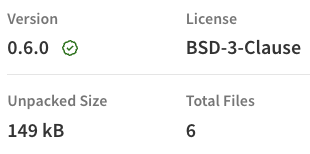
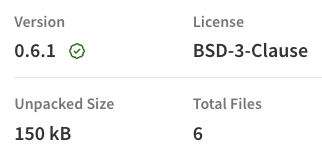
First draft

diff --git a/_drafts/react-virtual-scroll-0-6-0.md b/_drafts/react-virtual-scroll-0-6-0.md
@@ -12,7 +12,7 @@ After lots of thought and experimentation, I've mirrored the decoupling of virtu
 
 I've also included pre-composed `VirtualList` and `VirtualGrid` components for simple use cases. These components are largely backwards compatible with previous versions of the package. 
 
-It's time to introduce the new [React Virtual Scroll 0.6.x](https://www.npmjs.com/package/@candidstartup/react-virtual-scroll/v/0.6.0) component family.
+It's time to introduce the new [React Virtual Scroll 0.6.x](https://www.npmjs.com/package/@candidstartup/react-virtual-scroll/v/0.6.1) component family.
 
 {% include candid-image.html src="/assets/images/react-virtual-scroll/npm-react-virtual-scroll-0-6-0.png" alt="react-virtual-scroll 0.6.0 release" %}
 
@@ -100,7 +100,28 @@ Press and hold the arrow buttons in the offset fields to move window over the vi
 
 # Virtual Scroll
 
-`VirtualScroll` extracts the scrolling functionality from the old `VirtualList` and `VirtualGrid`. Scrolling behavior is determined by the `scrollableWidth` and `scrollableHeight` props. These directly set the size of the scrollable area. Set both for a two-dimensional scrolling experience, set either one for a horizontal or vertical scrolling experience.
+`VirtualScroll` extracts the scrolling functionality from the old `VirtualList` and `VirtualGrid`. Implementation uses the standard approach of an outer viewport container holding an inner content container. The difference is that the outer container has two children. 
+
+The content container uses [sticky positioning](https://developer.mozilla.org/en-US/docs/Web/CSS/position) to ensure that it always fills the viewport, regardless of scroll position. The other child is an empty div which acts as the scrollable area. Content rendering is decoupled from scrolling. The browser can no longer scroll stale content out of view. 
+
+{% raw %}
+
+```tsx
+<VirtualContainer className={className} render={outerRender} onScroll={onScroll}
+    style={{position:"relative", height, width, overflow: "auto", willChange: "transform"}}>
+  <VirtualContainer className={innerClassName} render={innerRender} 
+    style={{zIndex: 1, position: 'sticky', top: 0, left: 0, width: '100%', height: '100%'}}>
+    {children({isScrolling, verticalOffset, horizontalOffset})}
+  </VirtualContainer>
+  <div style={{ position: 'absolute', top: 0, left: 0, 
+    height: scrollHeight ? renderRowSize : '100%', 
+    width: scrollWidth ? renderColumnSize : '100%'}}/>
+</VirtualContainer>
+```
+
+{% endraw %}
+
+Scrolling behavior is determined by the `scrollableWidth` and `scrollableHeight` props. These directly set the size of the scrollable area. Set both for a two-dimensional scrolling experience, set either one for a horizontal or vertical scrolling experience.
 
 ```ts
 export interface VirtualScrollProps extends VirtualScrollableProps {
@@ -255,7 +276,7 @@ The simplest solution is to wrap the `DisplayList` in an `AutoSizer` so that it 
 
 {% endraw %}
 
-Most of the remaining code involved is needed to maintain backwards compatibility with the `onScroll` callback and `VirtualListProxy`. Lots of forwarding and restructuring to and from `VirtualScroll`. 
+Most of the remaining code is needed to maintain backwards compatibility with the `onScroll` callback and `VirtualListProxy`. Lots of forwarding and restructuring to and from `VirtualScroll`. 
 
 One of the reasons for decoupling functionality is to allow the client to put together their own combinations. To make it easier, I exported most of the `VirtualListProxy` functionality as utility functions that you can use with your own `VirtualScroll`. Which annoyingly means moving it into its own TypeScript source file to avoid breaking Vite HMR. 
 
@@ -332,34 +353,44 @@ Luckily, there's a better way. If you have more complex needs you can combine th
 
 # Overscan
 
+Traditional virtual scrolling implementations, like `react-window`, use [overscanning](https://web.dev/articles/virtualize-long-lists-react-window#overscanning) to try and compensate for glitchy rendering. Overscanning is the process of rendering additional content outside the visible window. If the browser scrolls stale content, the overscan items will be scrolled into view, reducing flashing. Obviously, this only works for small scale scrolls and ultimately reduces performance as you have more to render each frame.
+
+With the new decoupled rendering approach none of this is needed. I removed all the overscan rendering from `react-virtual-scroll`.
+
 # Layout Shift
+
+If you profile the new components using Chrome, you may see purple bars labeled as "Layout Shift".
 
 {% include candid-image.html src="/assets/images/react-virtual-scroll/spreadsheet-perf-decoupled-legacy.png" alt="Performance tool frame capture" %}
 
-* Layout Shift = stuff on the page moving around
-* https://web.dev/articles/debug-layout-shifts#devtools
-* In our case that's expected as we're moving content in a DisplayGrid to simulate the effects of scrolling
+[Layout shifts](https://web.dev/articles/debug-layout-shifts#devtools) occur when content moves around on the page. They're meant to identify user experience problems when content changes unpredictably, typically from images or data loading asynchronously and triggering a layout change.
+
+In our case we're intentionally changing the layout of a `DisplayList` or `DisplayGrid` to simulate the effects of scrolling. The weird thing is that Chrome only reports layout shifts when using the mouse wheel to scroll.
 
 # Cumulative Layout Shift
 
-* Core web performance metric
-* https://web.dev/articles/cls
-* Calculates an abstract score based on the number and size of layout shifts during an interaction session
-* Intent is to measure only unintended layout shifts - for example from async tasks like image or content load
-* Layout shifts within 500ms of user interaction are ignored.
+[Cumulate Layout Shift](https://web.dev/articles/cls) is a core web performance metric. It calculates an abstract score based on the number and size of layout shifts during an interaction session. The intent is to measure only unintended layout shifts. Layout shifts within 500ms of user interaction are ignored. Unfortunately, continuous interactions such as scrolls are [not considered to be recent input](https://github.com/WICG/layout-instability#recent-input-exclusion). 
 
-* Tool in Chrome. Here's metric when scrolling around the grid using the keyboard.
+The Chrome dev tools performance tab shows web metrics for the current session. Here's what they look like when interacting with the controls using mouse and keyboard. 
+
 {% include candid-image.html src="/assets/images/react-virtual-scroll/web-metrics-good.png" alt="Web metrics during keyboard navigation" %}
 
-* Here's the metric for the same grid when using mouse wheel and scroll bar
-{% include candid-image.html src="/assets/images/react-virtual-scroll/web-metrics-bad.png" alt="Web metrics during scrolling" %}
+Here's the metrics after some heavy duty mouse wheel scrolling. 
 
-* Scrolling doesn't count as intended!
-* Consider this to be a false positive
-* Only happens when user actively scrolling, so no impact on CLS score during page load (which is important for Google Search's [page experience](https://developers.google.com/search/docs/appearance/page-experience) based ranking)
+{% include candid-image.html src="/assets/images/react-virtual-scroll/web-metrics-bad.png" alt="Web metrics during mouse wheel scrolling" %}
+
+I consider this to be a false positive. It only happens when the user is actively scrolling using the mouse wheel, so has no impact on CLS score during page load. CLS scores are important for many people as they are part of Google Search's [page experience](https://developers.google.com/search/docs/appearance/page-experience) based ranking.
 
 # React 18 Rendering
 
+Decoupling virtualized content update from scrolling means that I no longer need to [rely on](https://www.thecandidstartup.org/2023/11/20/react-virtual-scroll-grid-3.html) the legacy React rendering path. All of these samples use the new React 18 rendering which gives continuous input events like scrolling a lower priority. 
+
 {% include candid-image.html src="/assets/images/react-virtual-scroll/spreadsheet-perf-decoupled-modern.png" alt="Performance tool frame capture" %}
 
+This is a frame from the middle of a sequence of scroll events. You can see that React returns to the event loop immediately after the scroll event is received, the browser paints the content from the previous frame and then React renders and updates the DOM for the new scroll position. 
+
+Play with the samples. You can't tell that what you're seeing is a frame behind because each frame is consistent.
+
 # Next Time
+
+Next time we'll see how we can make use of these new super powers in our [React Spreadsheet]({% link _topics/react-spreadsheet.md %}).
